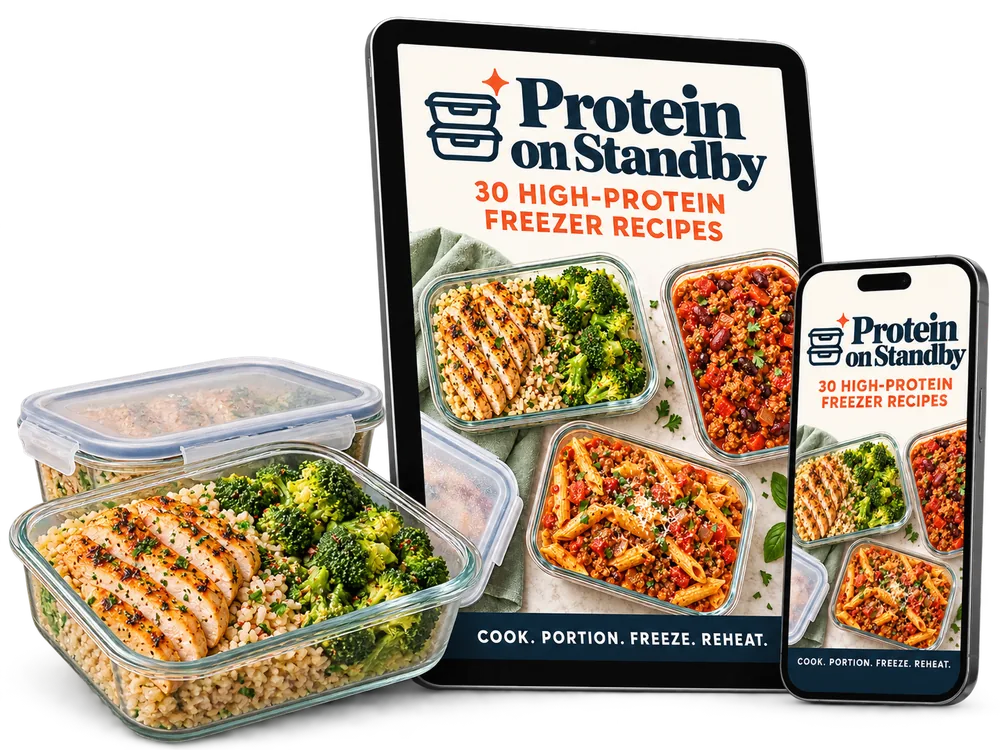
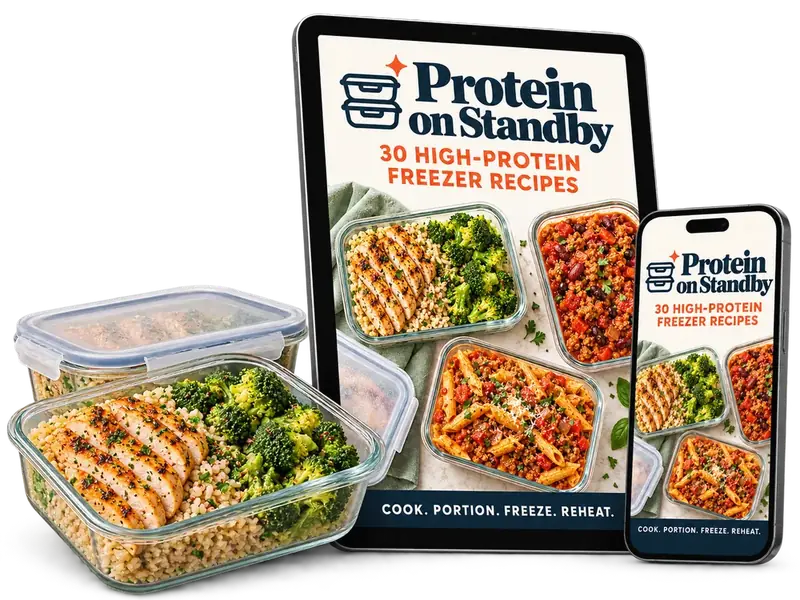
Performance: non-blocking Google Fonts, smaller images, bonus covers regenerated from new PDFs
Claude-Session: https://claude.ai/code/session_01141qGh6dUpAVrQsNiPnxvT

diff --git a/index.html b/index.html
@@ -12,7 +12,8 @@
     <link rel="icon" type="image/png" href="%BASE_URL%assets/opt/icon.png" />
     <link rel="preconnect" href="https://fonts.googleapis.com">
     <link rel="preconnect" href="https://fonts.gstatic.com" crossorigin>
-    <link href="https://fonts.googleapis.com/css2?family=Fraunces:ital,opsz,wght@0,9..144,400;0,9..144,500;0,9..144,600;0,9..144,700;1,9..144,400&family=Inter:wght@400;500;600;700&display=swap" rel="stylesheet">
+    <link rel="preload" as="style" href="https://fonts.googleapis.com/css2?family=Fraunces:ital,opsz,wght@0,9..144,400;0,9..144,500;0,9..144,600;0,9..144,700;1,9..144,400&family=Inter:wght@400;500;600;700&display=swap" onload="this.onload=null;this.rel='stylesheet'">
+    <noscript><link rel="stylesheet" href="https://fonts.googleapis.com/css2?family=Fraunces:ital,opsz,wght@0,9..144,400;0,9..144,500;0,9..144,600;0,9..144,700;1,9..144,400&family=Inter:wght@400;500;600;700&display=swap"></noscript>
     <style>
       html {
         scroll-behavior: smooth;
